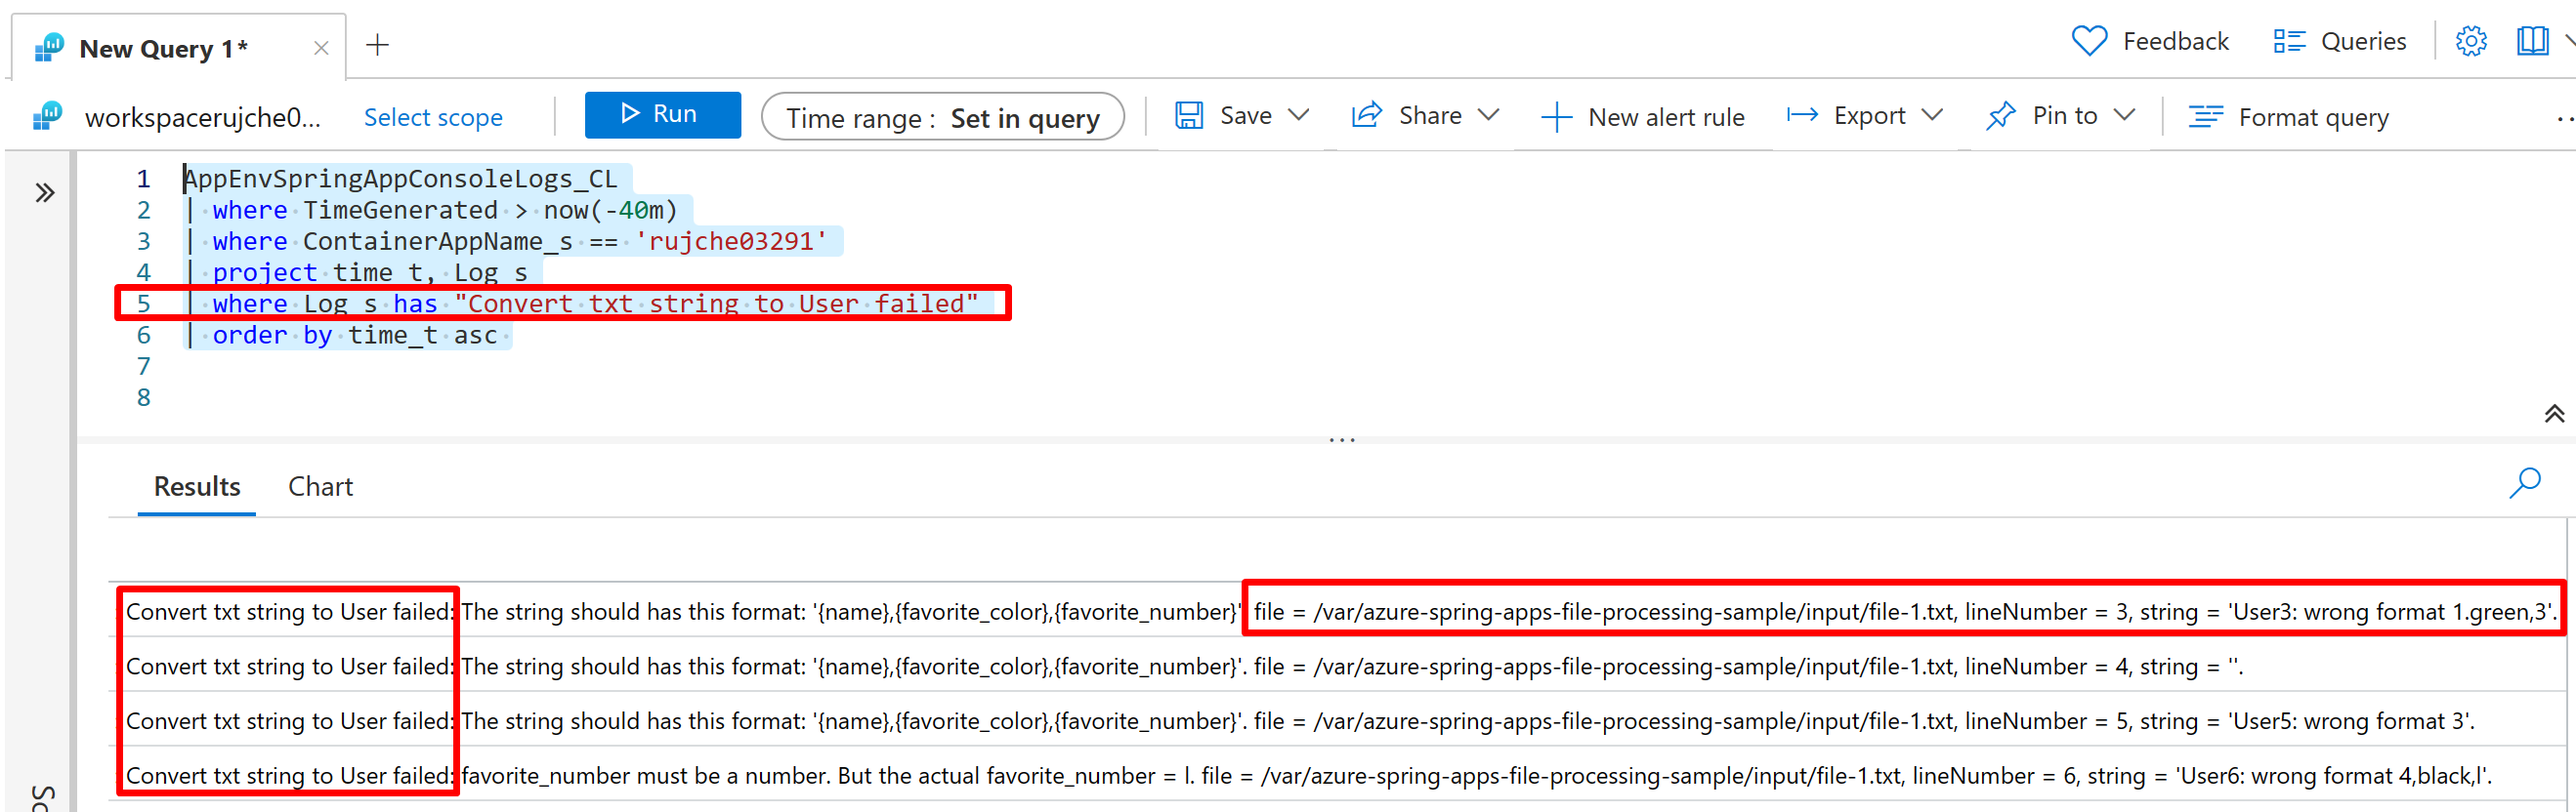
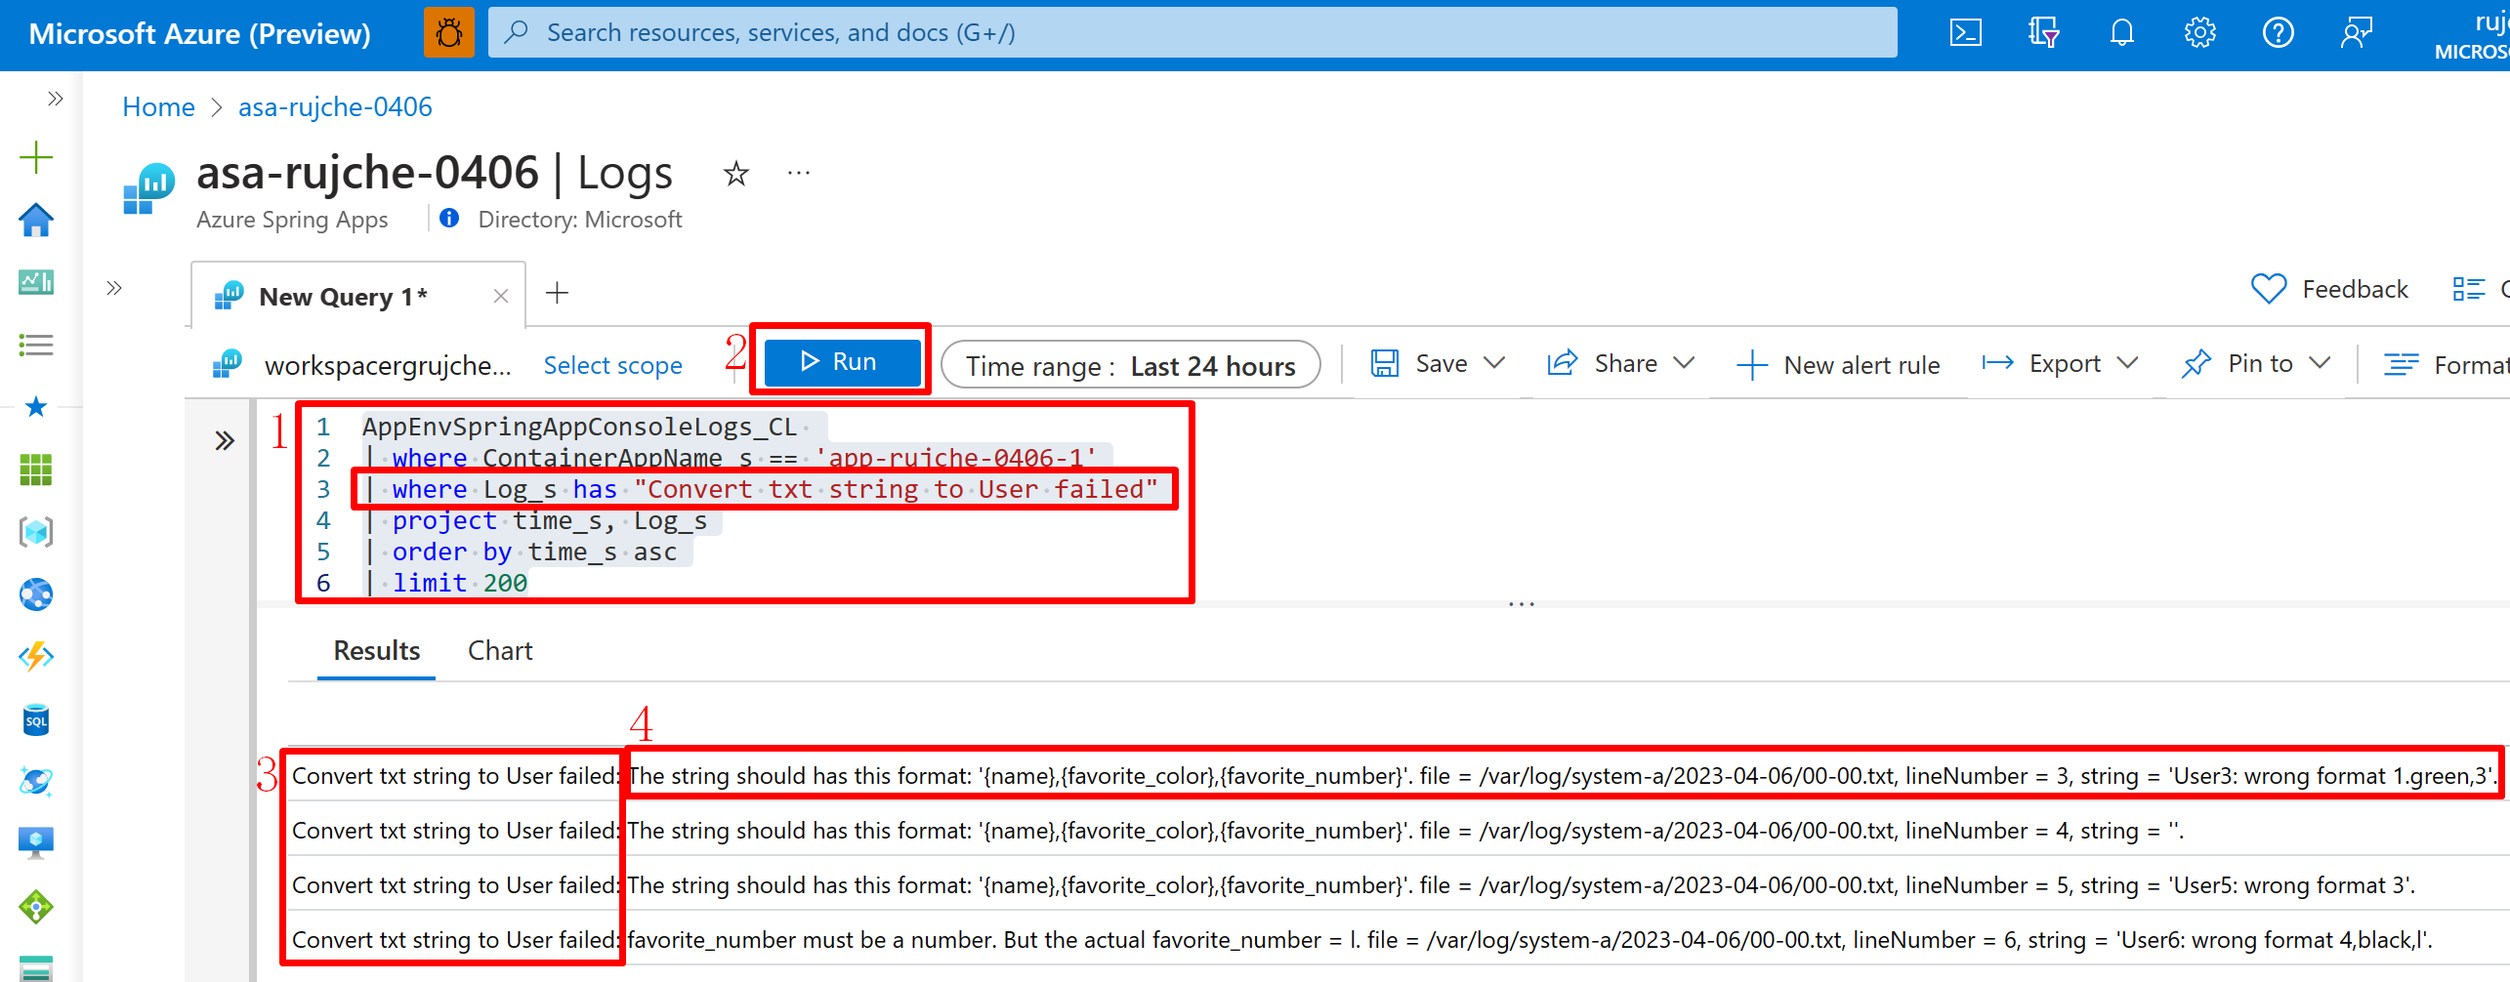
Update screenshots.

diff --git a/README.md b/README.md
@@ -120,44 +120,51 @@ Here is a screenshot about log files and folders:
      --service $AZURE_SPRING_APPS_INSTANCE \
      --name $APP_NAME
    ```
+
+   Screenshot:
+   ![check-log-by-azure-cli](./pictures/check-log-by-azure-cli.png)
+
 7. Check logs by [Azure Portal](https://ms.portal.azure.com/) -> Monitoring -> Logs
  
    Query:
    ```
    AppEnvSpringAppConsoleLogs_CL
-   | where TimeGenerated > now(-7m)
-   | project time_t, Log_s
-   | order by time_t asc
+   | where ContainerAppName_s == 'app-rujche-0406-1'
+   | project time_s, Log_s
+   | order by time_s asc
+   | limit 200
    ```
 
    Screenshot:
    ![check-log-by-portal](./pictures/check-log-by-portal.png)
 
-### 2.3. Check the execution result
+### 2.3. Check the details about file processing
 
-1. When a line of text is invalid, output a warning log, then continue handling remaining lines.
+1. Get log of specific error.
 
    Query:
    ```
    AppEnvSpringAppConsoleLogs_CL
-   | where TimeGenerated > now(-40m)
-   | project time_t, Log_s
+   | where ContainerAppName_s == 'app-rujche-0406-1'
    | where Log_s has "Convert txt string to User failed"
-   | order by time_t asc
+   | project time_s, Log_s
+   | order by time_s asc
+   | limit 200
    ```
 
    Screenshot:
    ![wrong-text-format](./pictures/wrong-text-format.png)
 
-2. Get all logs about a specific file.
+2. Get logs about a specific file.
 
    Query:
    ```
    AppEnvSpringAppConsoleLogs_CL
-   | where TimeGenerated > now(-40m)
-   | project time_t, Log_s
-   | where Log_s has "/var/azure-spring-apps-file-processing-sample/input/file-1.txt"
-   | order by time_t asc
+   | where ContainerAppName_s == 'app-rujche-0406-1'
+   | where Log_s has "/var/log/system-a/2023-04-06/00-00.txt"
+   | project time_s, Log_s
+   | order by time_s asc
+   | limit 200
    ```
 
    Screenshot:
